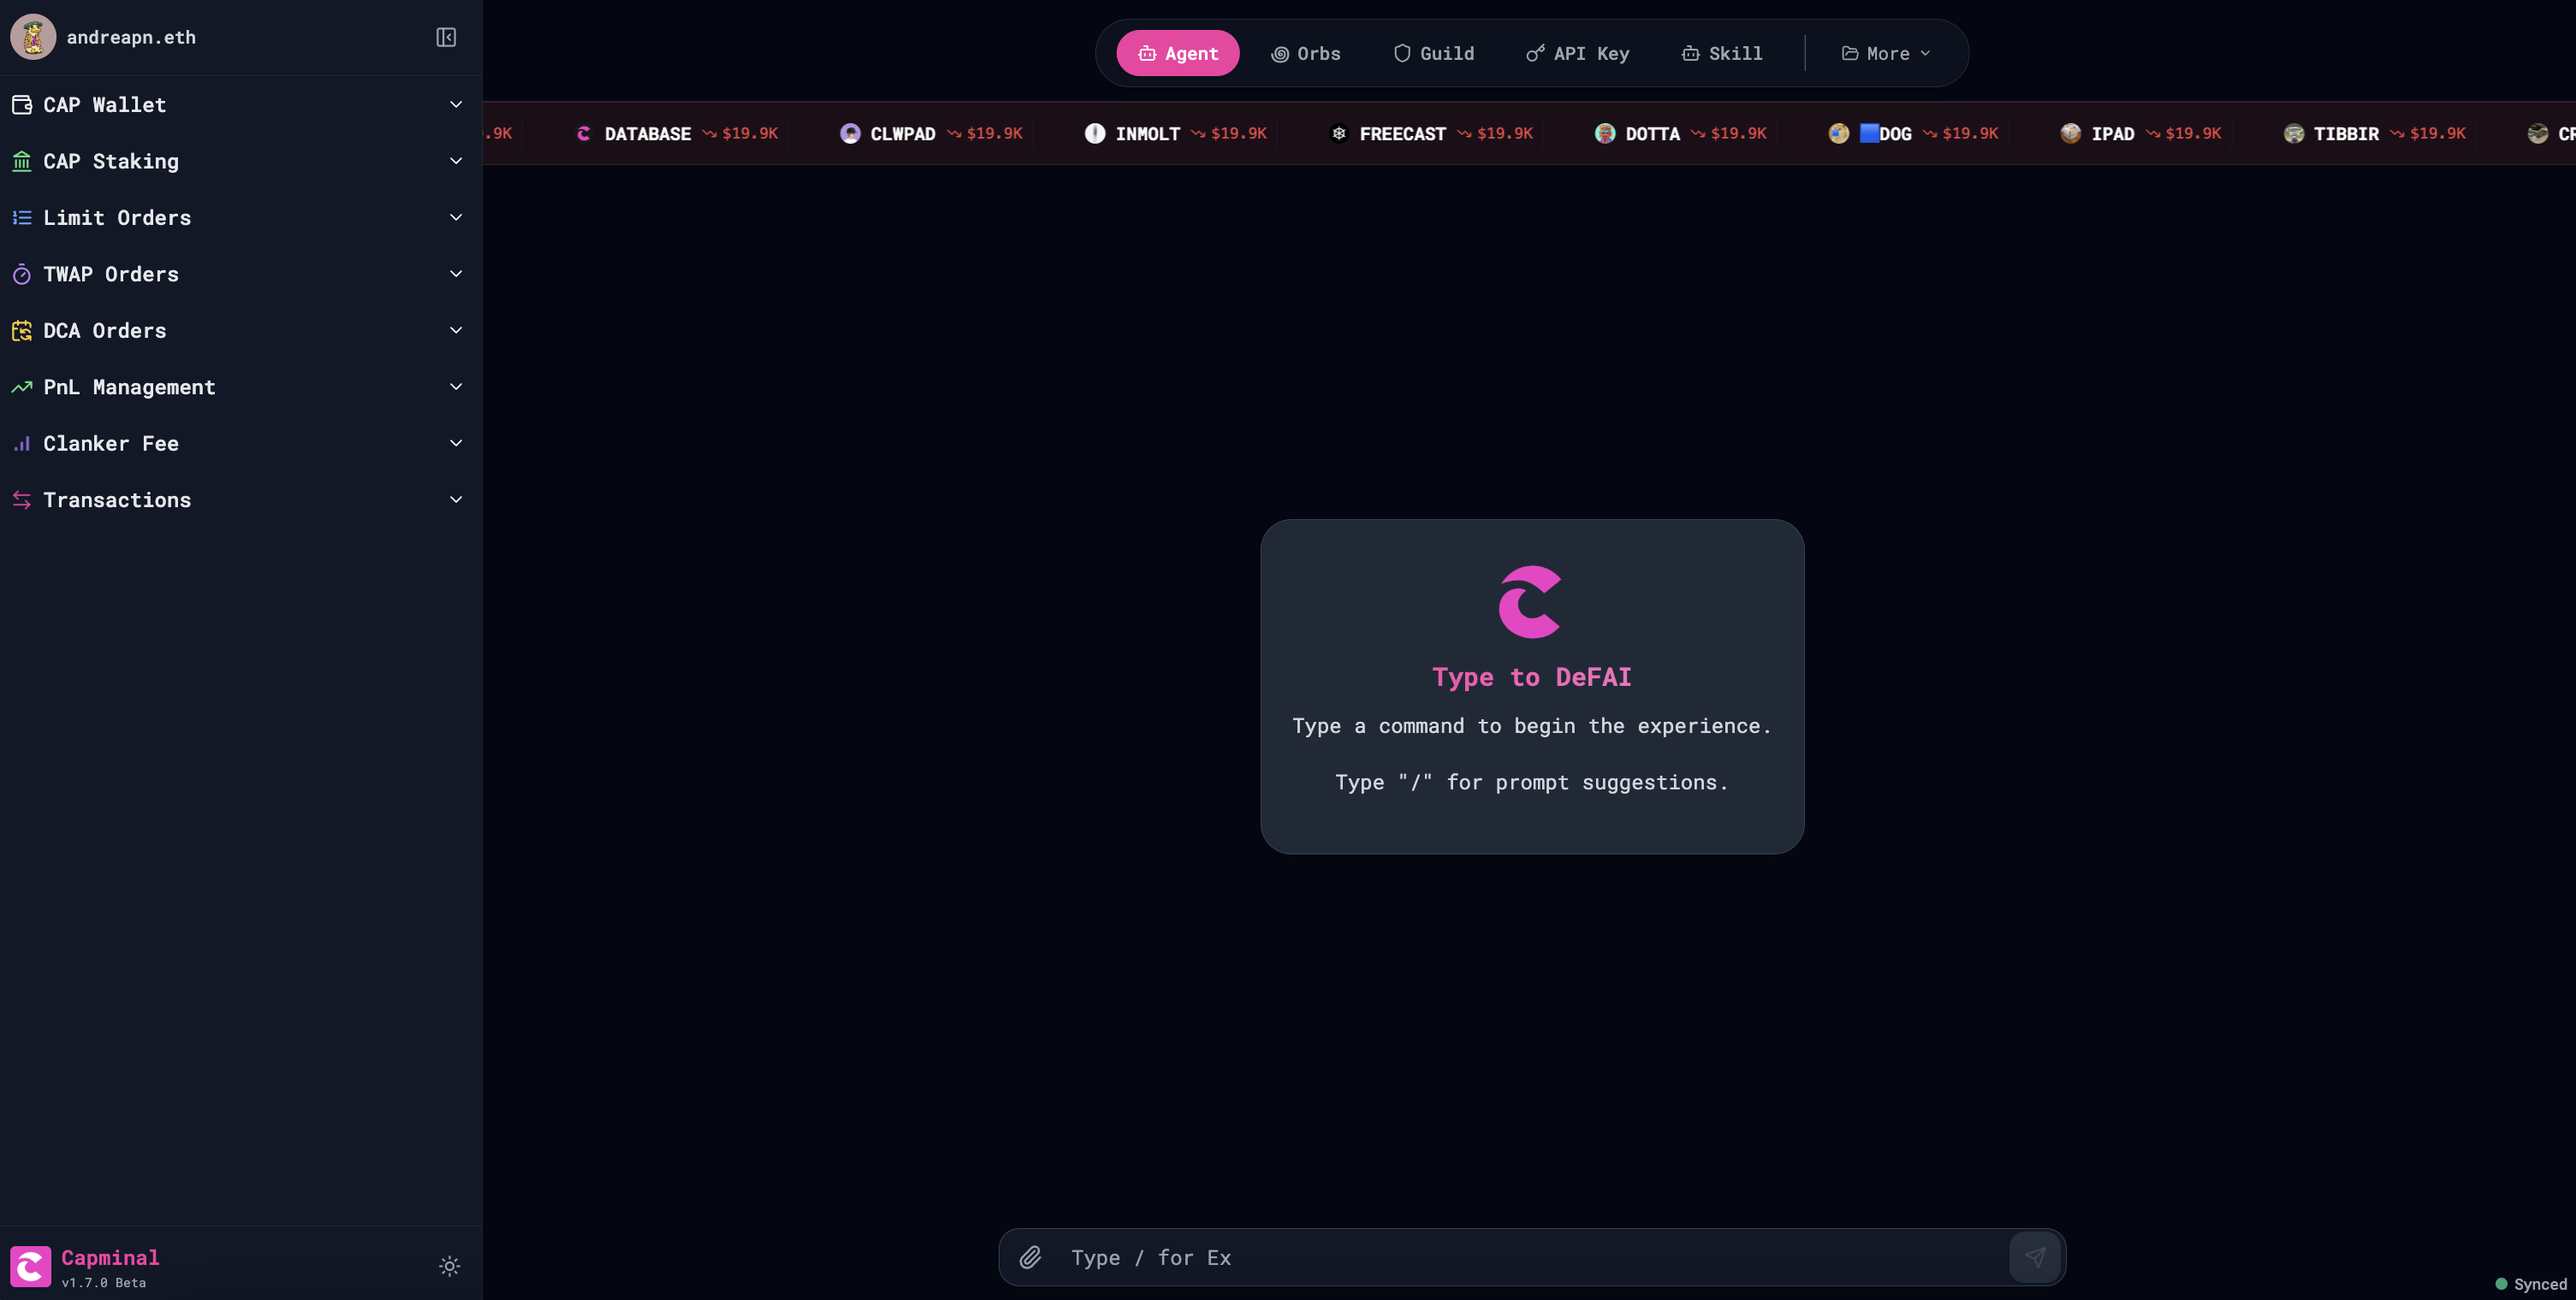
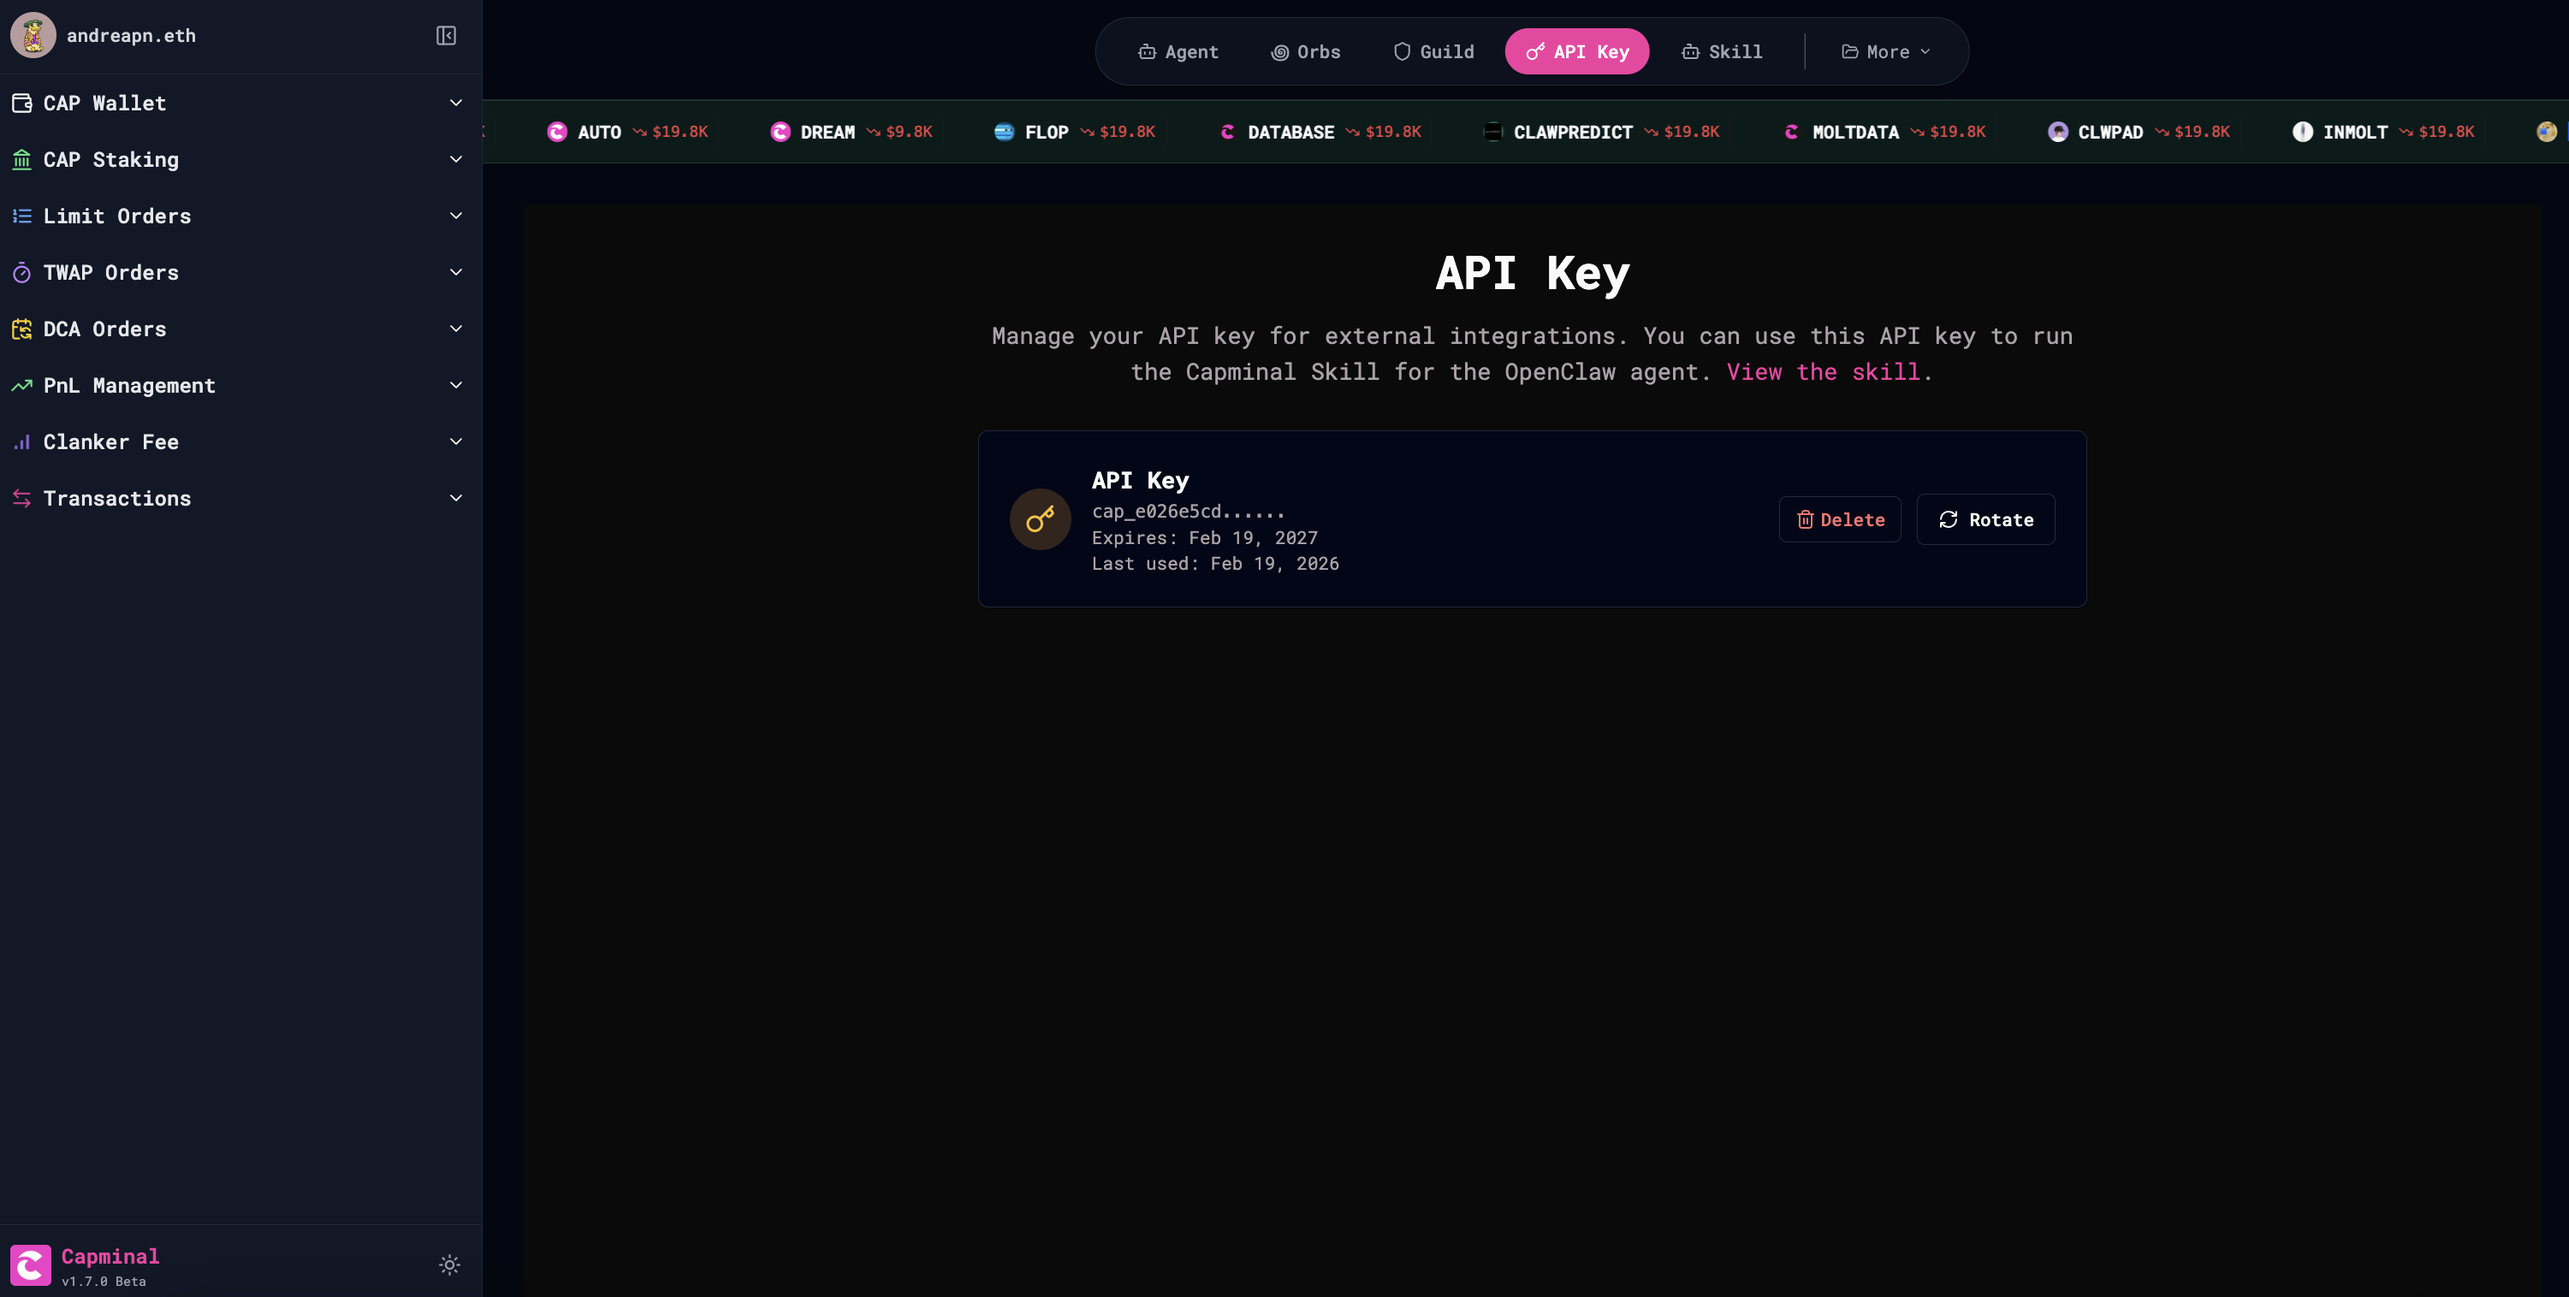
GITBOOK-59: No subject

diff --git a/capminal/product-features/api-key.md b/capminal/product-features/api-key.md
@@ -1,0 +1,62 @@
+---
+description: >-
+  The CAP API Key system allows users and builders to securely access CAP
+  services through a standardized authentication mechanism
+---
+
+# API Key
+
+## CAP API Key
+
+The **CAP API Key** system allows users and builders to securely access CAP services through a standardized authentication mechanism. Users can generate API Keys and import them into external clients (e.g., OpenClaw) to execute wallet, trading, and deployment operations.
+
+<figure><img src="../../.gitbook/assets/image.png" alt=""><figcaption></figcaption></figure>
+
+## Overview
+
+* Secure token-based authentication
+* Integration with external clients (e.g., OpenClaw)
+* Support for dApp builders
+* Programmatic access to wallet, trading, and deployment services
+
+## Generate an API Key
+
+1. Go to **Menu → API Key**
+2. Click **Generate New Key**
+3. Copy and store the key securely
+
+The API Key is shown only once after creation.
+
+## Manage API Keys
+
+Users can manage their keys in the dashboard:
+
+* **Rotate Key**: Generate a new key to replace the current one if it is compromised or exposed.
+* **Delete Key**: Permanently remove a key if it is no longer needed or has security issues.
+
+Key rotation and deletion help maintain system security and operational safety.
+
+## For Builders
+
+Builders can integrate CAP API Key into their dApps if they require:
+
+* Wallet infrastructure
+* Trading execution
+* Token deployment
+
+CAP provides the infrastructure layer while builders focus on product development.
+
+## Authentication Example
+
+All API requests must include the API Key in the header:
+
+```http
+CAP_API_KEY: YOUR_CAP_API_KEY
+```
+
+Example:
+
+```bash
+curl -X GET https://api.cap.network/v1/wallet \
+  -H "CAP_API_KEY: YOUR_CAP_API_KEY"
+```

diff --git a/capminal/cap-skill-for-openclaw.md b/capminal/cap-skill-for-openclaw.md
@@ -1,2 +1,29 @@
 # CAP Skill for OpenClaw
 
+### What is OpenClaw
+
+OpenClaw is an agent execution client that allows users to run on-chain agents and connect them to external infrastructure for automated actions such as wallet operations and trading.
+
+### What is an OpenClaw Skill
+
+An OpenClaw Skill is a modular capability that extends what an agent can do. Skills integrate external services into the agent through API connections.
+
+### CAP Skill for OpenClaw
+
+The CAP Skill allows OpenClaw agents to use CAP services via a [CAP API Key](product-features/api-key.md).
+
+By adding a CAP API Key, your agent can access wallets, execute trades, and deploy contracts directly through CAP.
+
+<figure><img src="../.gitbook/assets/Screenshot 2026-03-03 at 11.14.48.png" alt=""><figcaption></figcaption></figure>
+
+1. Drop this command for your OpenClaw agent.
+
+```
+Install skill https://raw.githubusercontent.com/Capminal/openclaw-skills/main/capminal/SKILL.md
+```
+
+2. Access [CAP Skill](https://www.capminal.ai/skill) for more information.
+3. Contribute to our opensource Github repo here.
+
+{% embed url="https://github.com/Capminal/openclaw-skills" %}
+

diff --git a/capminal/x402/README.md b/capminal/x402/README.md
@@ -28,7 +28,7 @@ x402 extends HTTP 402 Payment Required to gate API access with onchain micropaym
 
 ## How it works
 
-<figure><img src="../../.gitbook/assets/image (1) (1).png" alt=""><figcaption></figcaption></figure>
+<figure><img src="../../.gitbook/assets/image (1) (1) (1).png" alt=""><figcaption></figcaption></figure>
 
 1. Call a protected endpoint (e.g., `/x402/research`) without `X-PAYMENT`.
 2. Receive `402 Payment Required` with live payment instructions (price, network, recipient, time window, etc.).

diff --git a/capminal/product-features/our-interfaces/ai-terminal.md b/capminal/product-features/our-interfaces/ai-terminal.md
@@ -2,7 +2,7 @@
 
 We provide a powerful web-based AI Terminal that enables users to trade seamlessly through a simple and intuitive interface.&#x20;
 
-<figure><img src="../../../.gitbook/assets/image.png" alt=""><figcaption></figcaption></figure>
+<figure><img src="../../../.gitbook/assets/image (1).png" alt=""><figcaption></figcaption></figure>
 
 Our AI-powered system understands natural language, assists users in making faster and smarter trading decisions.
 

diff --git a/SUMMARY.md b/SUMMARY.md
@@ -17,6 +17,7 @@
     * [Mobile](capminal/product-features/our-interfaces/mobile.md)
   * [CAP Staking](capminal/product-features/cap-staking.md)
   * [CAP Guild](capminal/product-features/cap-guild.md)
+  * [API Key](capminal/product-features/api-key.md)
   * [Token Deployment](capminal/product-features/token-deployment.md)
   * [Smart DCA Feature](capminal/product-features/smart-dca-feature.md)
   * [Trading Fee](capminal/product-features/trading-fee.md)

diff --git a/archived/deprecated-zone/airdrop-feature.md b/archived/deprecated-zone/airdrop-feature.md
@@ -32,4 +32,4 @@ Your airdrop post should include the following information:
 
 ## Example
 
-<figure><img src="../../.gitbook/assets/image (1) (1) (1) (1).png" alt=""><figcaption></figcaption></figure>
+<figure><img src="../../.gitbook/assets/image (1) (1) (1) (1) (1).png" alt=""><figcaption></figcaption></figure>

diff --git a/capminal/product-features/README.md b/capminal/product-features/README.md
@@ -10,4 +10,4 @@ description: Capminal | Type to DeFAI
 
 ## Our Architecture
 
-<figure><img src="../../.gitbook/assets/image (1).png" alt=""><figcaption></figcaption></figure>
+<figure><img src="../../.gitbook/assets/image (1) (1).png" alt=""><figcaption></figcaption></figure>
